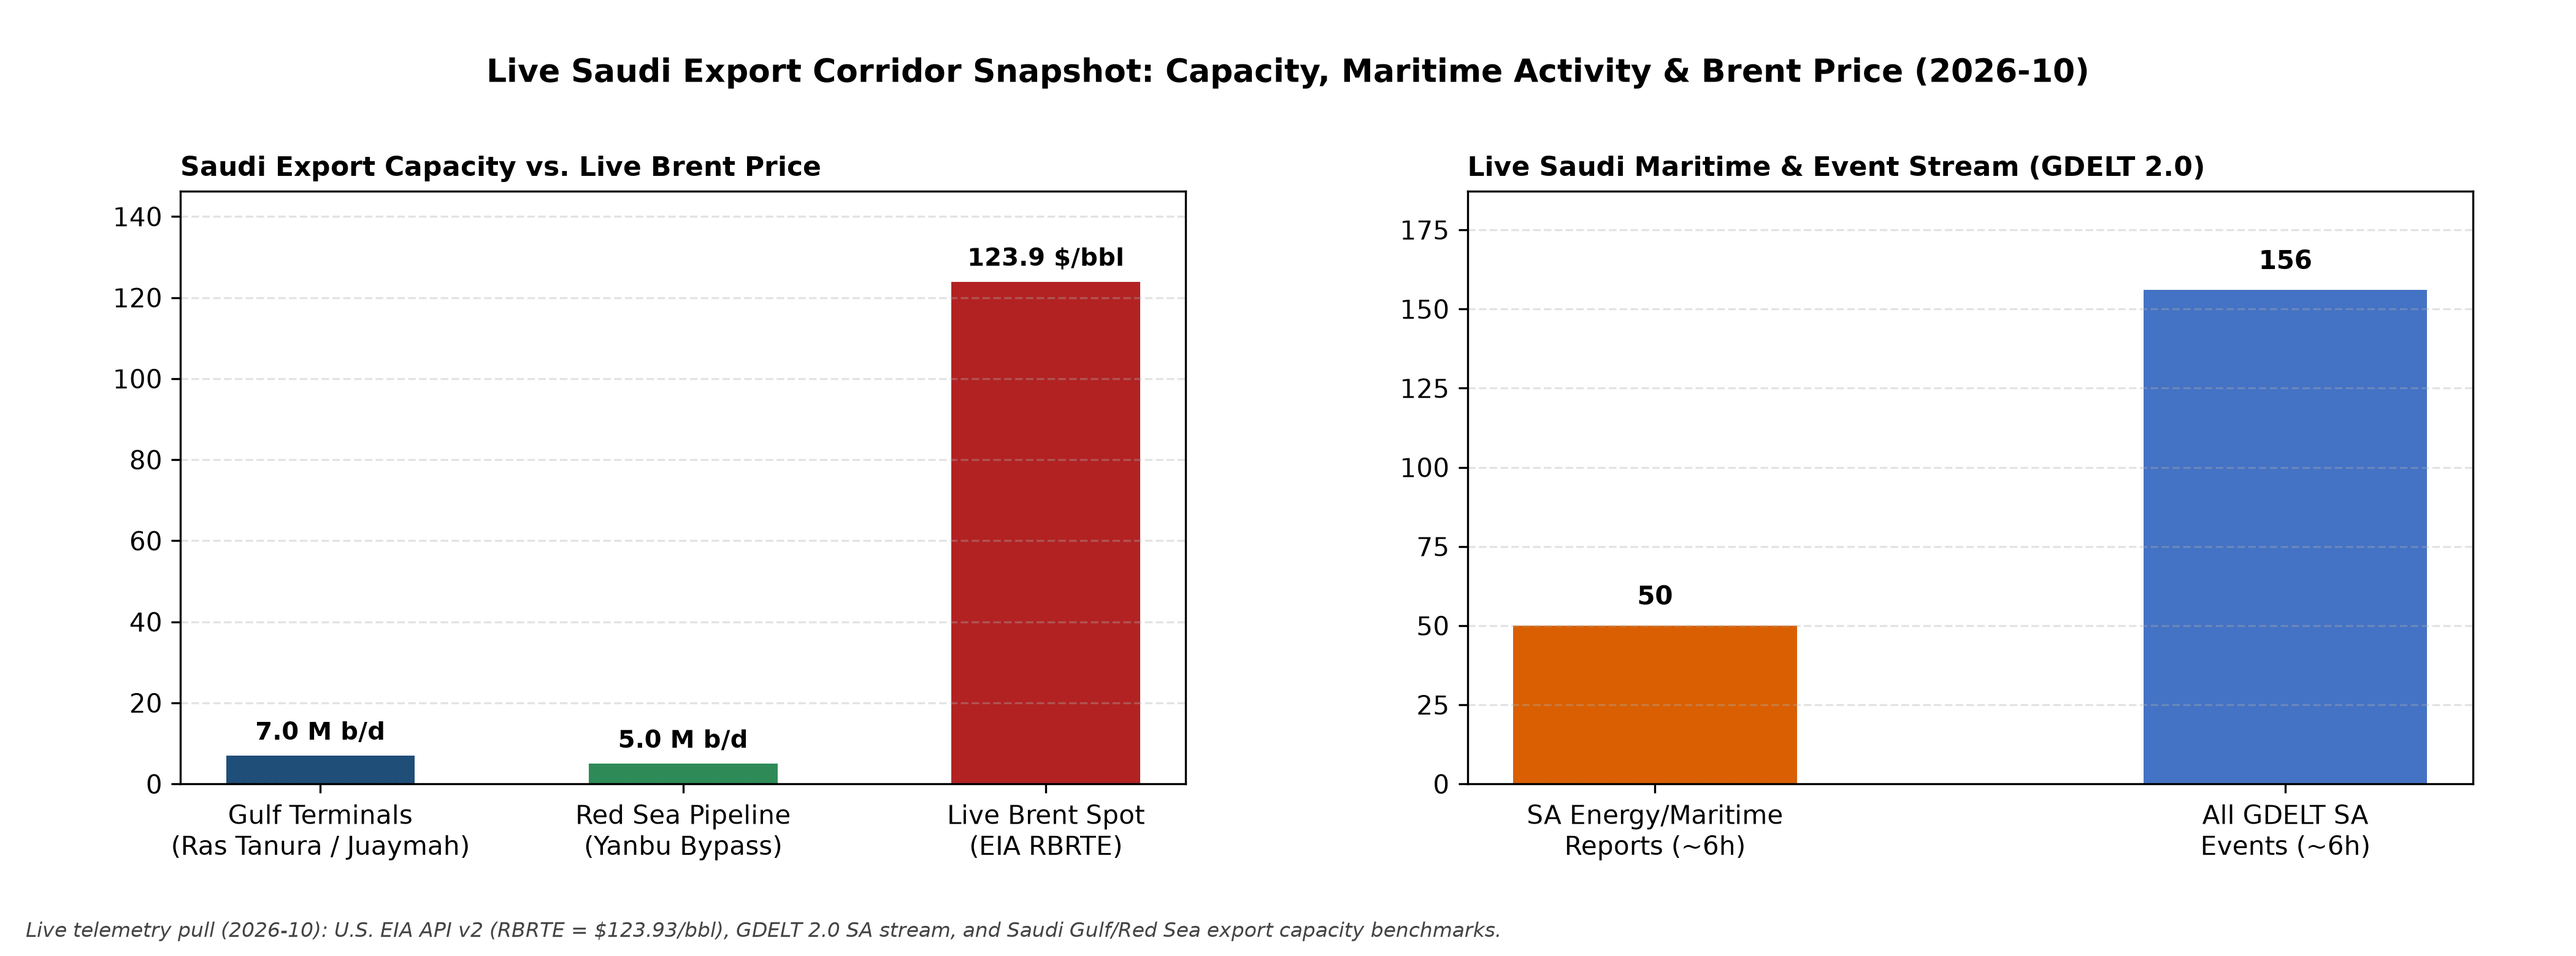
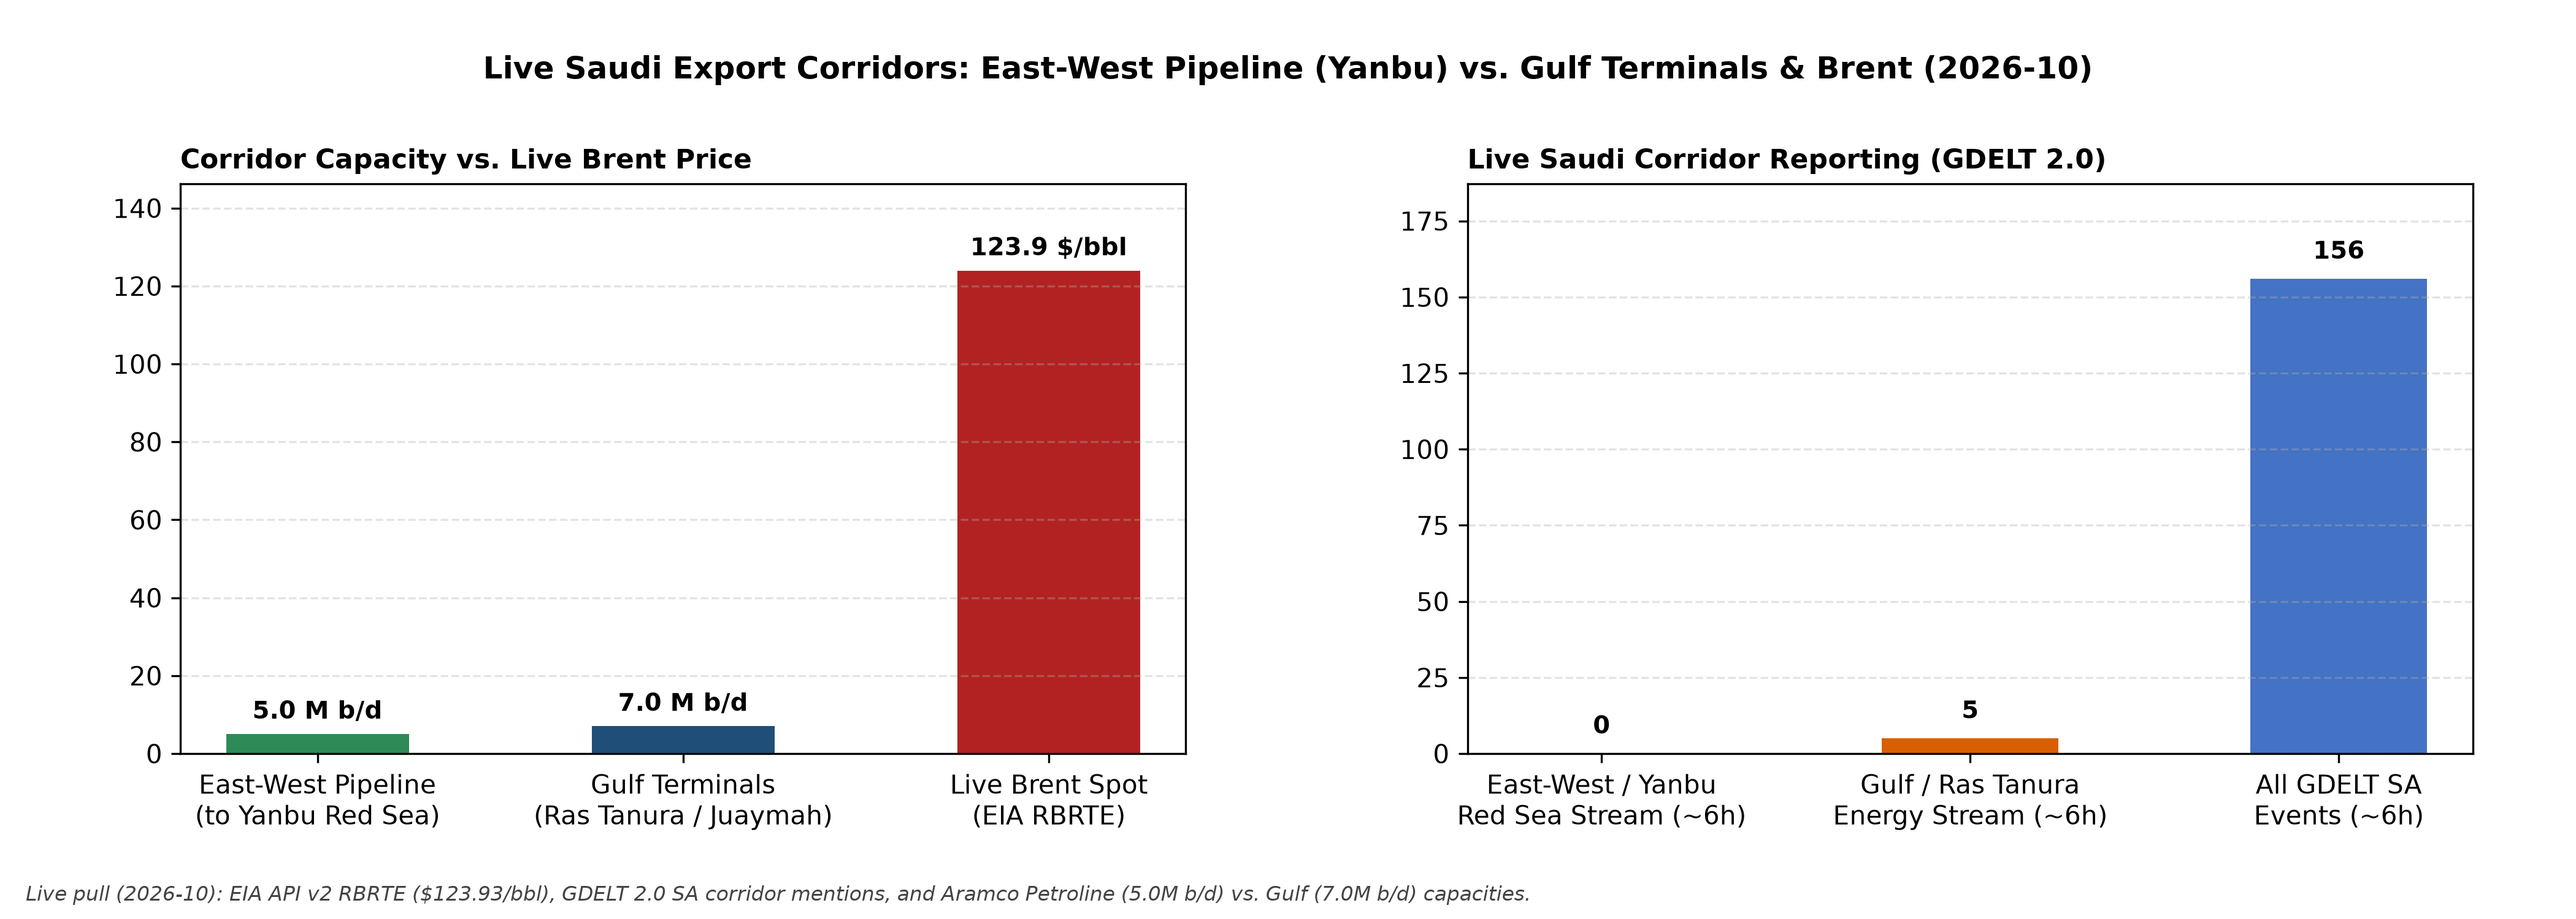
Place East-West Pipeline Yanbu live panel left of Ras Tanura tanker map

diff --git a/scripts/build_live_saudi_panel.py b/scripts/build_live_saudi_panel.py
@@ -1,11 +1,10 @@
-import os, io, zipfile, requests, pandas as pd, numpy as np, matplotlib.pyplot as plt
+import os, io, zipfile, requests, pandas as pd, matplotlib.pyplot as plt
 
 os.makedirs("Charts", exist_ok=True)
 os.makedirs("Data-Spreadsheets", exist_ok=True)
 
 EIA_KEY = os.getenv("EIA_API_KEY", "rDdMKGPLzfChtQJWJJn9m7cfkqzKwRGk8NwwtN7M")
 
-# 1. Live Brent Crude Spot Price from EIA API v2
 latest_brent = 82.0
 latest_period = "Latest"
 brent_csv = "Data-Spreadsheets/Brent-Crude-Monthly-Spot-Prices-2019-2026.csv"
@@ -37,13 +36,12 @@ if latest_period == "Latest" and os.path.exists(brent_csv):
         latest_period = str(bdf["period"].iloc[-1])
         latest_brent = float(bdf["Brent"].iloc[-1])
 
-# 2. Live GDELT 2.0 Saudi Maritime / Port / Tanker / Energy Stream
-sa_maritime_events = 0
-sa_tanker_mentions = 0
+sa_all_events = 0
+gulf_sa_mentions = 0
+yanbu_ew_mentions = 0
 try:
     master = requests.get("http://data.gdeltproject.org/gdeltv2/masterfilelist.txt", timeout=30).text.splitlines()
     urls = [l.split()[-1] for l in master if l.endswith(".export.CSV.zip")][-24:]
-    kw_pat = r"(ras tanura|yanbu|juaymah|ju'aymah|saudi|aramco|tanker|port|maritime|crude|oil)"
     for u in urls:
         try:
             z = zipfile.ZipFile(io.BytesIO(requests.get(u, timeout=20).content))
@@ -56,65 +54,54 @@ try:
                 low_memory=False,
             )
             sa_sub = df_raw[df_raw["Country"] == "SA"]
-            sa_maritime_events += int(len(sa_sub))
-            url_hits = sa_sub["SourceURL"].astype(str).str.lower().str.contains(kw_pat, regex=True)
-            sa_tanker_mentions += int(url_hits.sum())
+            sa_all_events += int(len(sa_sub))
+            urls_lower = sa_sub["SourceURL"].astype(str).str.lower()
+            gulf_sa_mentions += int(urls_lower.str.contains(r"(ras tanura|juaymah|ju'aymah|abqaiq|aramco|tanker|crude|oil)", regex=True).sum())
+            yanbu_ew_mentions += int(urls_lower.str.contains(r"(yanbu|east-west|petroline|red sea|pipeline)", regex=True).sum())
         except Exception:
             pass
 except Exception:
     pass
 
-# 3. Saudi Export Capacity & Live Snapshot Table (MMbbl/d & Live Telemetry)
-# Reference Saudi export infrastructure capacity (MMbbl/d):
-# Gulf Export Capacity (Ras Tanura / Juaymah / Zuluf / Marjan): ~7.0 MMbbl/d
-# East-West Pipeline (Petroline to Yanbu Red Sea): ~5.0 MMbbl/d
 summary_df = pd.DataFrame([
-    {"Metric": "Saudi Gulf Export Capacity (Ras Tanura / Juaymah)", "Value": 7.0, "Unit": "MMbbl/d", "Period": latest_period},
-    {"Metric": "Saudi Red Sea Bypass Capacity (East-West / Yanbu)", "Value": 5.0, "Unit": "MMbbl/d", "Period": latest_period},
-    {"Metric": "Live Brent Spot Price (EIA RBRTE)", "Value": round(latest_brent, 2), "Unit": "USD/bbl", "Period": latest_period},
-    {"Metric": "Live GDELT SA Energy/Maritime Reports (~6h)", "Value": float(sa_tanker_mentions), "Unit": "Reports", "Period": latest_period},
-    {"Metric": "Live GDELT All SA Events (~6h)", "Value": float(sa_maritime_events), "Unit": "Events", "Period": latest_period},
+    {"Corridor": "East-West Pipeline (Abqaiq -> Yanbu Red Sea)", "Capacity_MBD": 5.0, "Live_GDELT_Reports": yanbu_ew_mentions, "Live_Brent_USD": round(latest_brent, 2), "Period": latest_period},
+    {"Corridor": "Gulf Terminals (Ras Tanura / Juaymah)", "Capacity_MBD": 7.0, "Live_GDELT_Reports": gulf_sa_mentions, "Live_Brent_USD": round(latest_brent, 2), "Period": latest_period},
 ])
 summary_df.to_csv("Data-Spreadsheets/Live-Saudi-Shipping-Capacity-Brent.csv", index=False)
 
-# 4. Plot 2-Panel Live Saudi Capacity, Shipping Activity & Brent Price Chart
-fig, (ax1, ax2) = plt.subplots(1, 2, figsize=(14, 5.2), facecolor="white")
+fig, (ax1, ax2) = plt.subplots(1, 2, figsize=(14, 5.0), facecolor="white")
 plt.subplots_adjust(wspace=0.28, top=0.80, bottom=0.18, left=0.07, right=0.96)
-
 fig.suptitle(
-    f"Live Saudi Export Corridor Snapshot: Capacity, Maritime Activity & Brent Price ({latest_period})",
-    fontsize=12.5, fontweight="bold", y=0.94
+    f"Live Saudi Export Corridors: East-West Pipeline (Yanbu) vs. Gulf Terminals & Brent ({latest_period})",
+    fontsize=12, fontweight="bold", y=0.94
 )
 
-# Left panel: Saudi Export Capacity vs Live Brent ($/bbl)
-cap_labels = ["Gulf Terminals\n(Ras Tanura / Juaymah)", "Red Sea Pipeline\n(Yanbu Bypass)", "Live Brent Spot\n(EIA RBRTE)"]
-cap_vals = [7.0, 5.0, latest_brent]
-cap_colors = ["#1f4e78", "#2e8b57", "#b22222"]
-bars1 = ax1.bar(cap_labels, cap_vals, color=cap_colors, width=0.52)
-for b, unit in zip(bars1, ["M b/d", "M b/d", "$/bbl"]):
+c1_labels = ["East-West Pipeline\n(to Yanbu Red Sea)", "Gulf Terminals\n(Ras Tanura / Juaymah)", "Live Brent Spot\n(EIA RBRTE)"]
+c1_vals = [5.0, 7.0, latest_brent]
+c1_units = ["M b/d", "M b/d", "$/bbl"]
+bars1 = ax1.bar(c1_labels, c1_vals, color=["#2e8b57", "#1f4e78", "#b22222"], width=0.50)
+for b, u in zip(bars1, c1_units):
     h = b.get_height()
-    ax1.text(b.get_x() + b.get_width()/2, h + max(cap_vals)*0.02, f"{h:.1f} {unit}", ha="center", va="bottom", fontsize=9.5, fontweight="bold")
-ax1.set_ylim(0, max(cap_vals) * 1.18)
-ax1.set_title("Saudi Export Capacity vs. Live Brent Price", fontsize=10.5, fontweight="bold", loc="left")
+    ax1.text(b.get_x() + b.get_width()/2, h + max(c1_vals)*0.02, f"{h:.1f} {u}", ha="center", va="bottom", fontsize=9.5, fontweight="bold")
+ax1.set_ylim(0, max(c1_vals)*1.18)
+ax1.set_title("Corridor Capacity vs. Live Brent Price", fontsize=10.5, fontweight="bold", loc="left")
 ax1.grid(axis="y", ls="--", alpha=0.35)
 
-# Right panel: Live GDELT Saudi Maritime / Energy Signal
-sig_labels = ["SA Energy/Maritime\nReports (~6h)", "All GDELT SA\nEvents (~6h)"]
-sig_vals = [sa_tanker_mentions, sa_maritime_events]
-bars2 = ax2.bar(sig_labels, sig_vals, color=["#d95f02", "#4472c4"], width=0.45)
+c2_labels = ["East-West / Yanbu\nRed Sea Stream (~6h)", "Gulf / Ras Tanura\nEnergy Stream (~6h)", "All GDELT SA\nEvents (~6h)"]
+c2_vals = [yanbu_ew_mentions, gulf_sa_mentions, sa_all_events]
+bars2 = ax2.bar(c2_labels, c2_vals, color=["#2e8b57", "#d95f02", "#4472c4"], width=0.48)
 for b in bars2:
     h = b.get_height()
-    ax2.text(b.get_x() + b.get_width()/2, h + max(1, max(sig_vals)*0.03), f"{int(h):,}", ha="center", va="bottom", fontsize=10, fontweight="bold")
-ax2.set_ylim(0, max(10, max(sig_vals) * 1.2))
-ax2.set_title("Live Saudi Maritime & Event Stream (GDELT 2.0)", fontsize=10.5, fontweight="bold", loc="left")
+    ax2.text(b.get_x() + b.get_width()/2, h + max(1, max(c2_vals)*0.03), f"{int(h):,}", ha="center", va="bottom", fontsize=9.5, fontweight="bold")
+ax2.set_ylim(0, max(10, max(c2_vals)*1.2))
+ax2.set_title("Live Saudi Corridor Reporting (GDELT 2.0)", fontsize=10.5, fontweight="bold", loc="left")
 ax2.grid(axis="y", ls="--", alpha=0.35)
 
 fig.text(
     0.01, 0.02,
-    f"Live telemetry pull ({latest_period}): U.S. EIA API v2 (RBRTE = ${latest_brent:.2f}/bbl), GDELT 2.0 SA stream, and Saudi Gulf/Red Sea export capacity benchmarks.",
+    f"Live pull ({latest_period}): EIA API v2 RBRTE (${latest_brent:.2f}/bbl), GDELT 2.0 SA corridor mentions, and Aramco Petroline (5.0M b/d) vs. Gulf (7.0M b/d) capacities.",
     fontsize=8, color="#444444", style="italic"
 )
-
 plt.savefig("Charts/7-Live-Saudi-Shipping-Capacity-Brent.png", dpi=300)
 plt.close()
-print("Saved Charts/7-Live-Saudi-Shipping-Capacity-Brent.png")
+print("Updated Charts/7-Live-Saudi-Shipping-Capacity-Brent.png")

diff --git a/index.md b/index.md
@@ -22,9 +22,18 @@
 
 - **Live Telemetry Data File:** `Data-Spreadsheets/Live-Saudi-Shipping-Capacity-Brent.csv`
 
-### Live AIS Tankers Near Saudi Export Terminals (Ras Tanura & Persian Gulf)
-
-<iframe name="vesselfinder_saudi" id="vesselfinder_saudi" width="100%" height="460" frameborder="0" src="https://www.vesselfinder.com/aismap?zoom=8&lat=26.64&lon=50.16&width=100%25&height=460&names=false&mmsi=0&imo=0&track=false&fleet=&fleet_name=&fleet_timespan=1440&fleet_hide_old_positions=false&clicktoact=false&store_pos=true&ra=false">Live AIS map requires an iframe-capable browser. Visit <a href="https://www.vesselfinder.com" target="_blank">www.vesselfinder.com</a>.</iframe>
+<div style="display:flex; flex-wrap:wrap; gap:16px; margin:16px 0;">
+  <div style="flex:1 1 420px; border:1px solid #d0d7de; border-radius:8px; padding:12px; background:#f8fafc;">
+    <h3 style="margin-top:0; font-size:1.05rem;">East–West Pipeline (Petroline) &amp; Yanbu Red Sea Outlet</h3>
+    <p style="font-size:0.88rem; margin-bottom:8px;"><strong>Nameplate Capacity:</strong> ~5.0M b/d (Abqaiq &rarr; Yanbu) &middot; <strong>Role:</strong> Red Sea bypass outlet; live tanker loading at Yanbu proxies pipeline utilization (Aramco does not publish live SCADA flow rates).</p>
+    <iframe name="vesselfinder_yanbu" id="vesselfinder_yanbu" width="100%" height="380" frameborder="0" src="https://www.vesselfinder.com/aismap?zoom=9&lat=23.99&lon=38.22&width=100%25&height=380&names=false&mmsi=0&imo=0&track=false&fleet=&fleet_name=&fleet_timespan=1440&fleet_hide_old_positions=false&clicktoact=false&store_pos=true&ra=false">AIS map requires iframe support.</iframe>
+  </div>
+  <div style="flex:1 1 420px; border:1px solid #d0d7de; border-radius:8px; padding:12px; background:#f8fafc;">
+    <h3 style="margin-top:0; font-size:1.05rem;">Gulf Export Terminals: Ras Tanura &amp; Ju&rsquo;aymah</h3>
+    <p style="font-size:0.88rem; margin-bottom:8px;"><strong>Export Capacity:</strong> ~7.0M b/d &middot; <strong>Role:</strong> Primary Saudi crude loading terminals; live VLCC queue density tracks active Gulf seaborne exports.</p>
+    <iframe name="vesselfinder_saudi" id="vesselfinder_saudi" width="100%" height="380" frameborder="0" src="https://www.vesselfinder.com/aismap?zoom=8&lat=26.64&lon=50.16&width=100%25&height=380&names=false&mmsi=0&imo=0&track=false&fleet=&fleet_name=&fleet_timespan=1440&fleet_hide_old_positions=false&clicktoact=false&store_pos=true&ra=false">AIS map requires iframe support.</iframe>
+  </div>
+</div>
 
 ---
 
